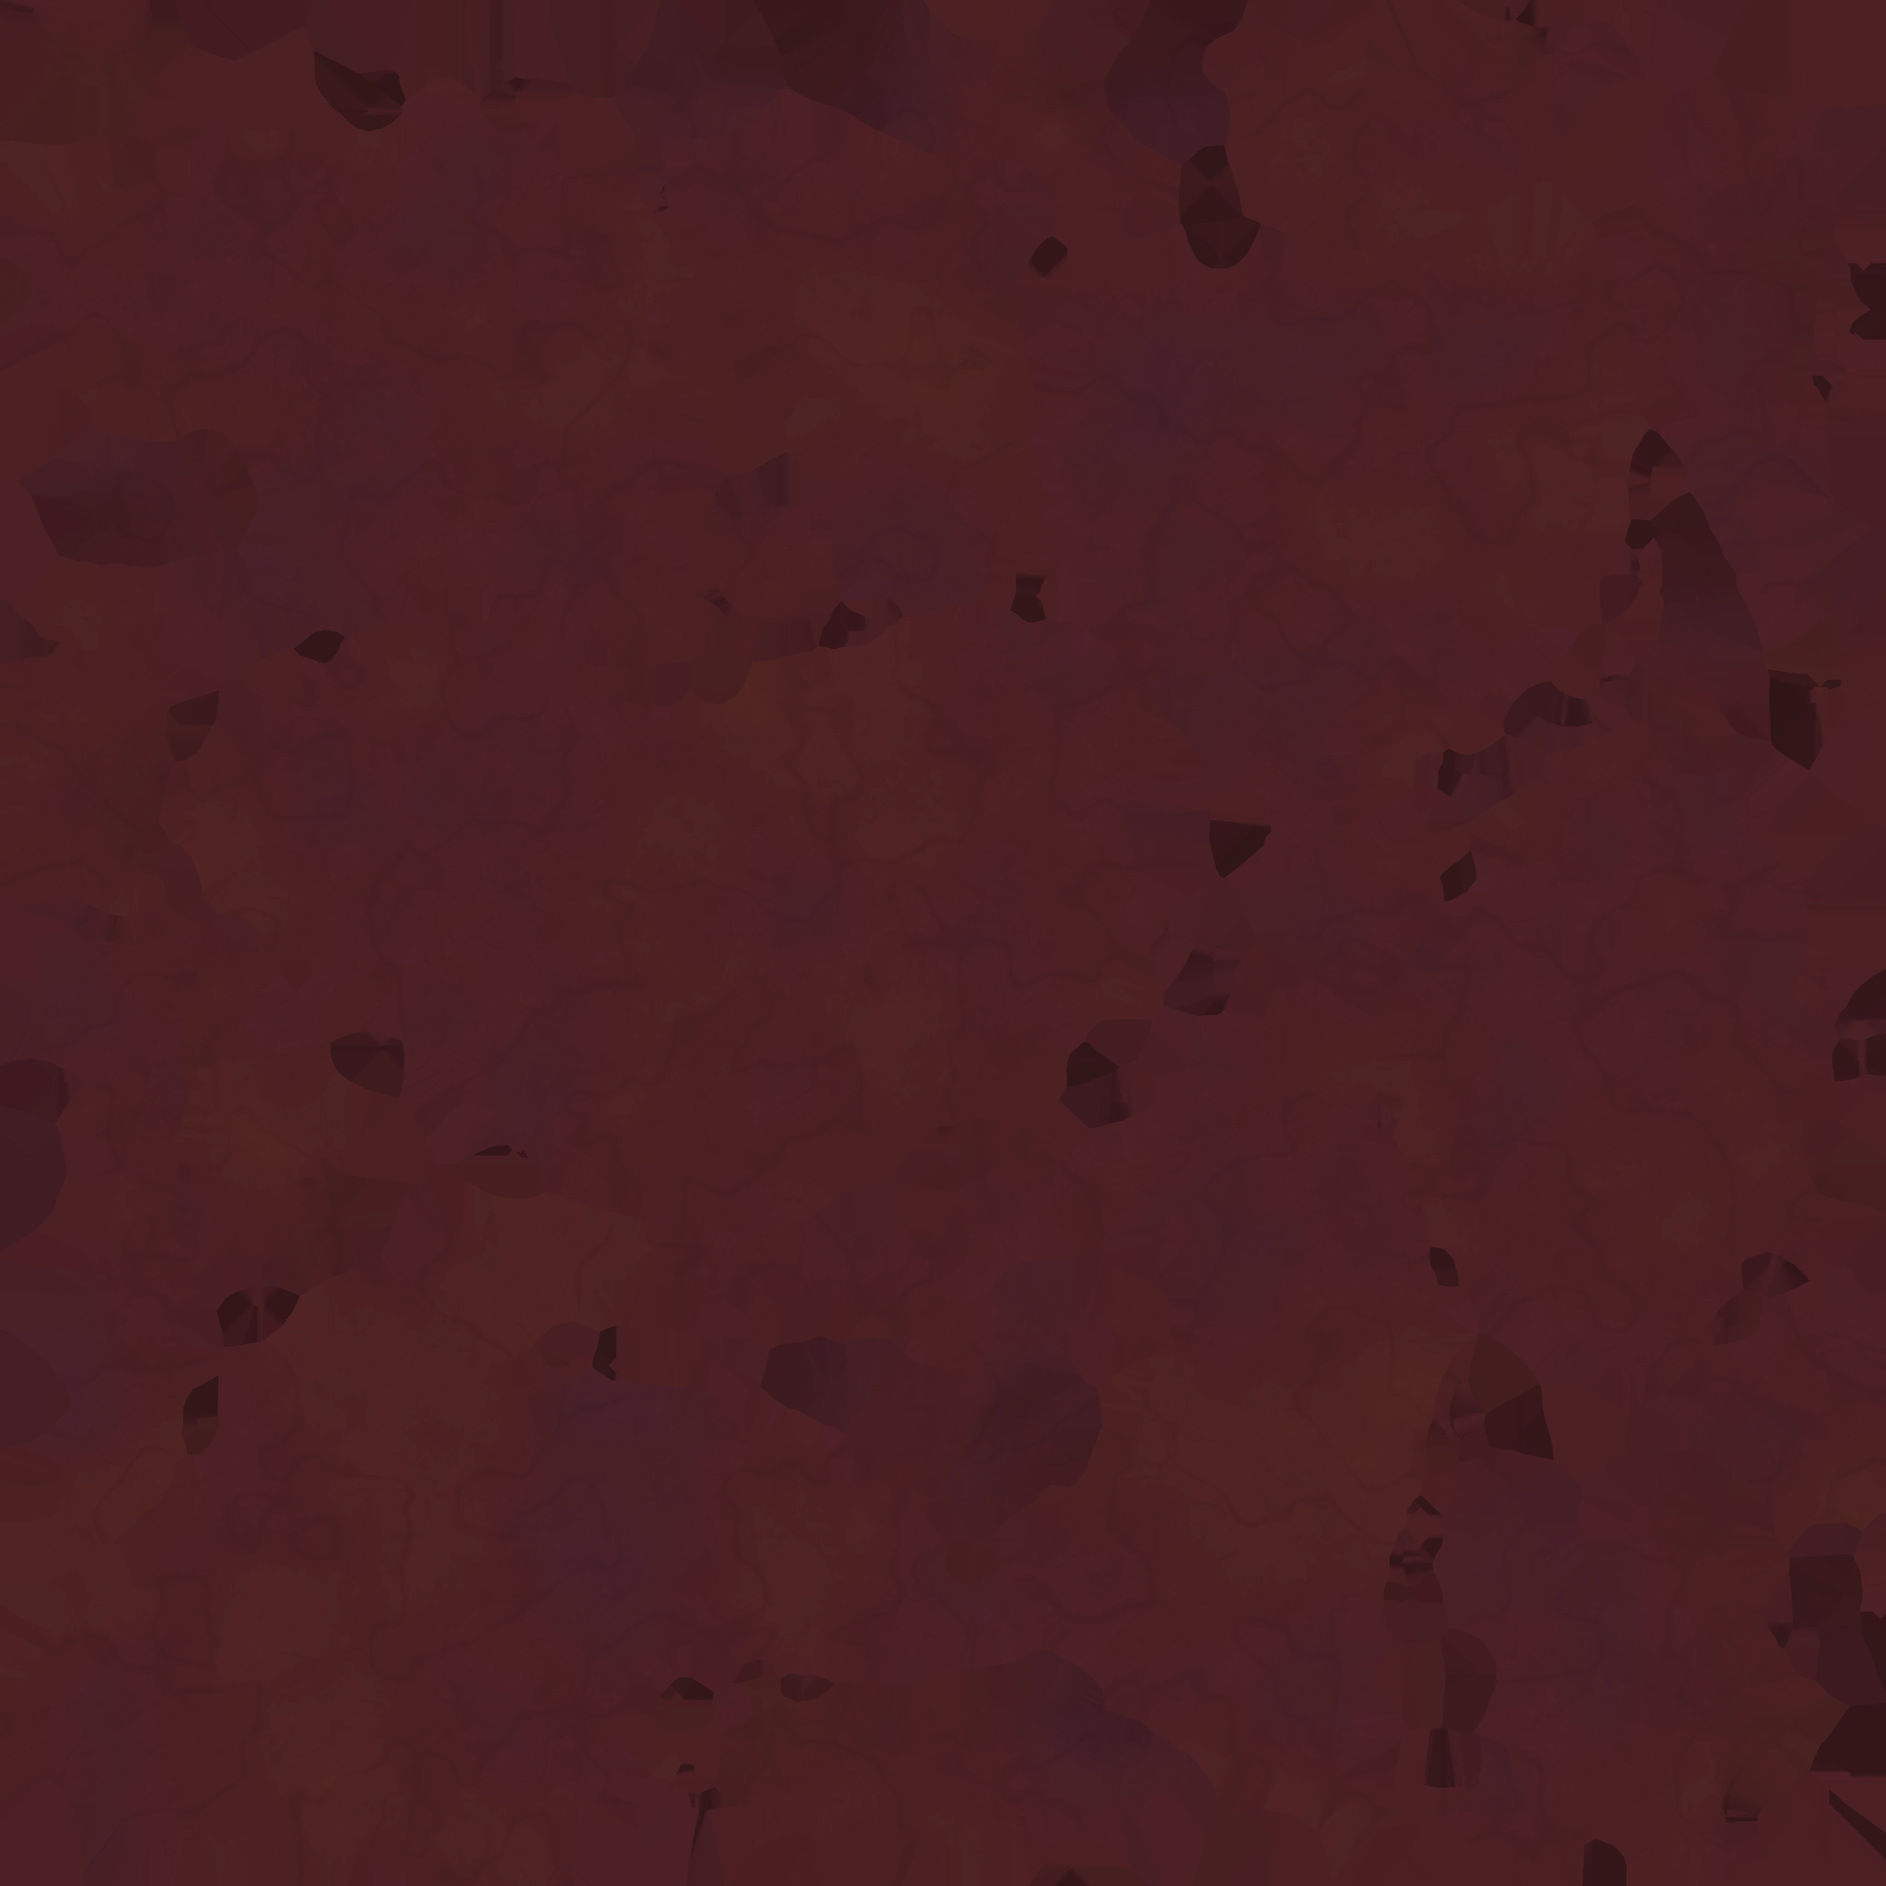
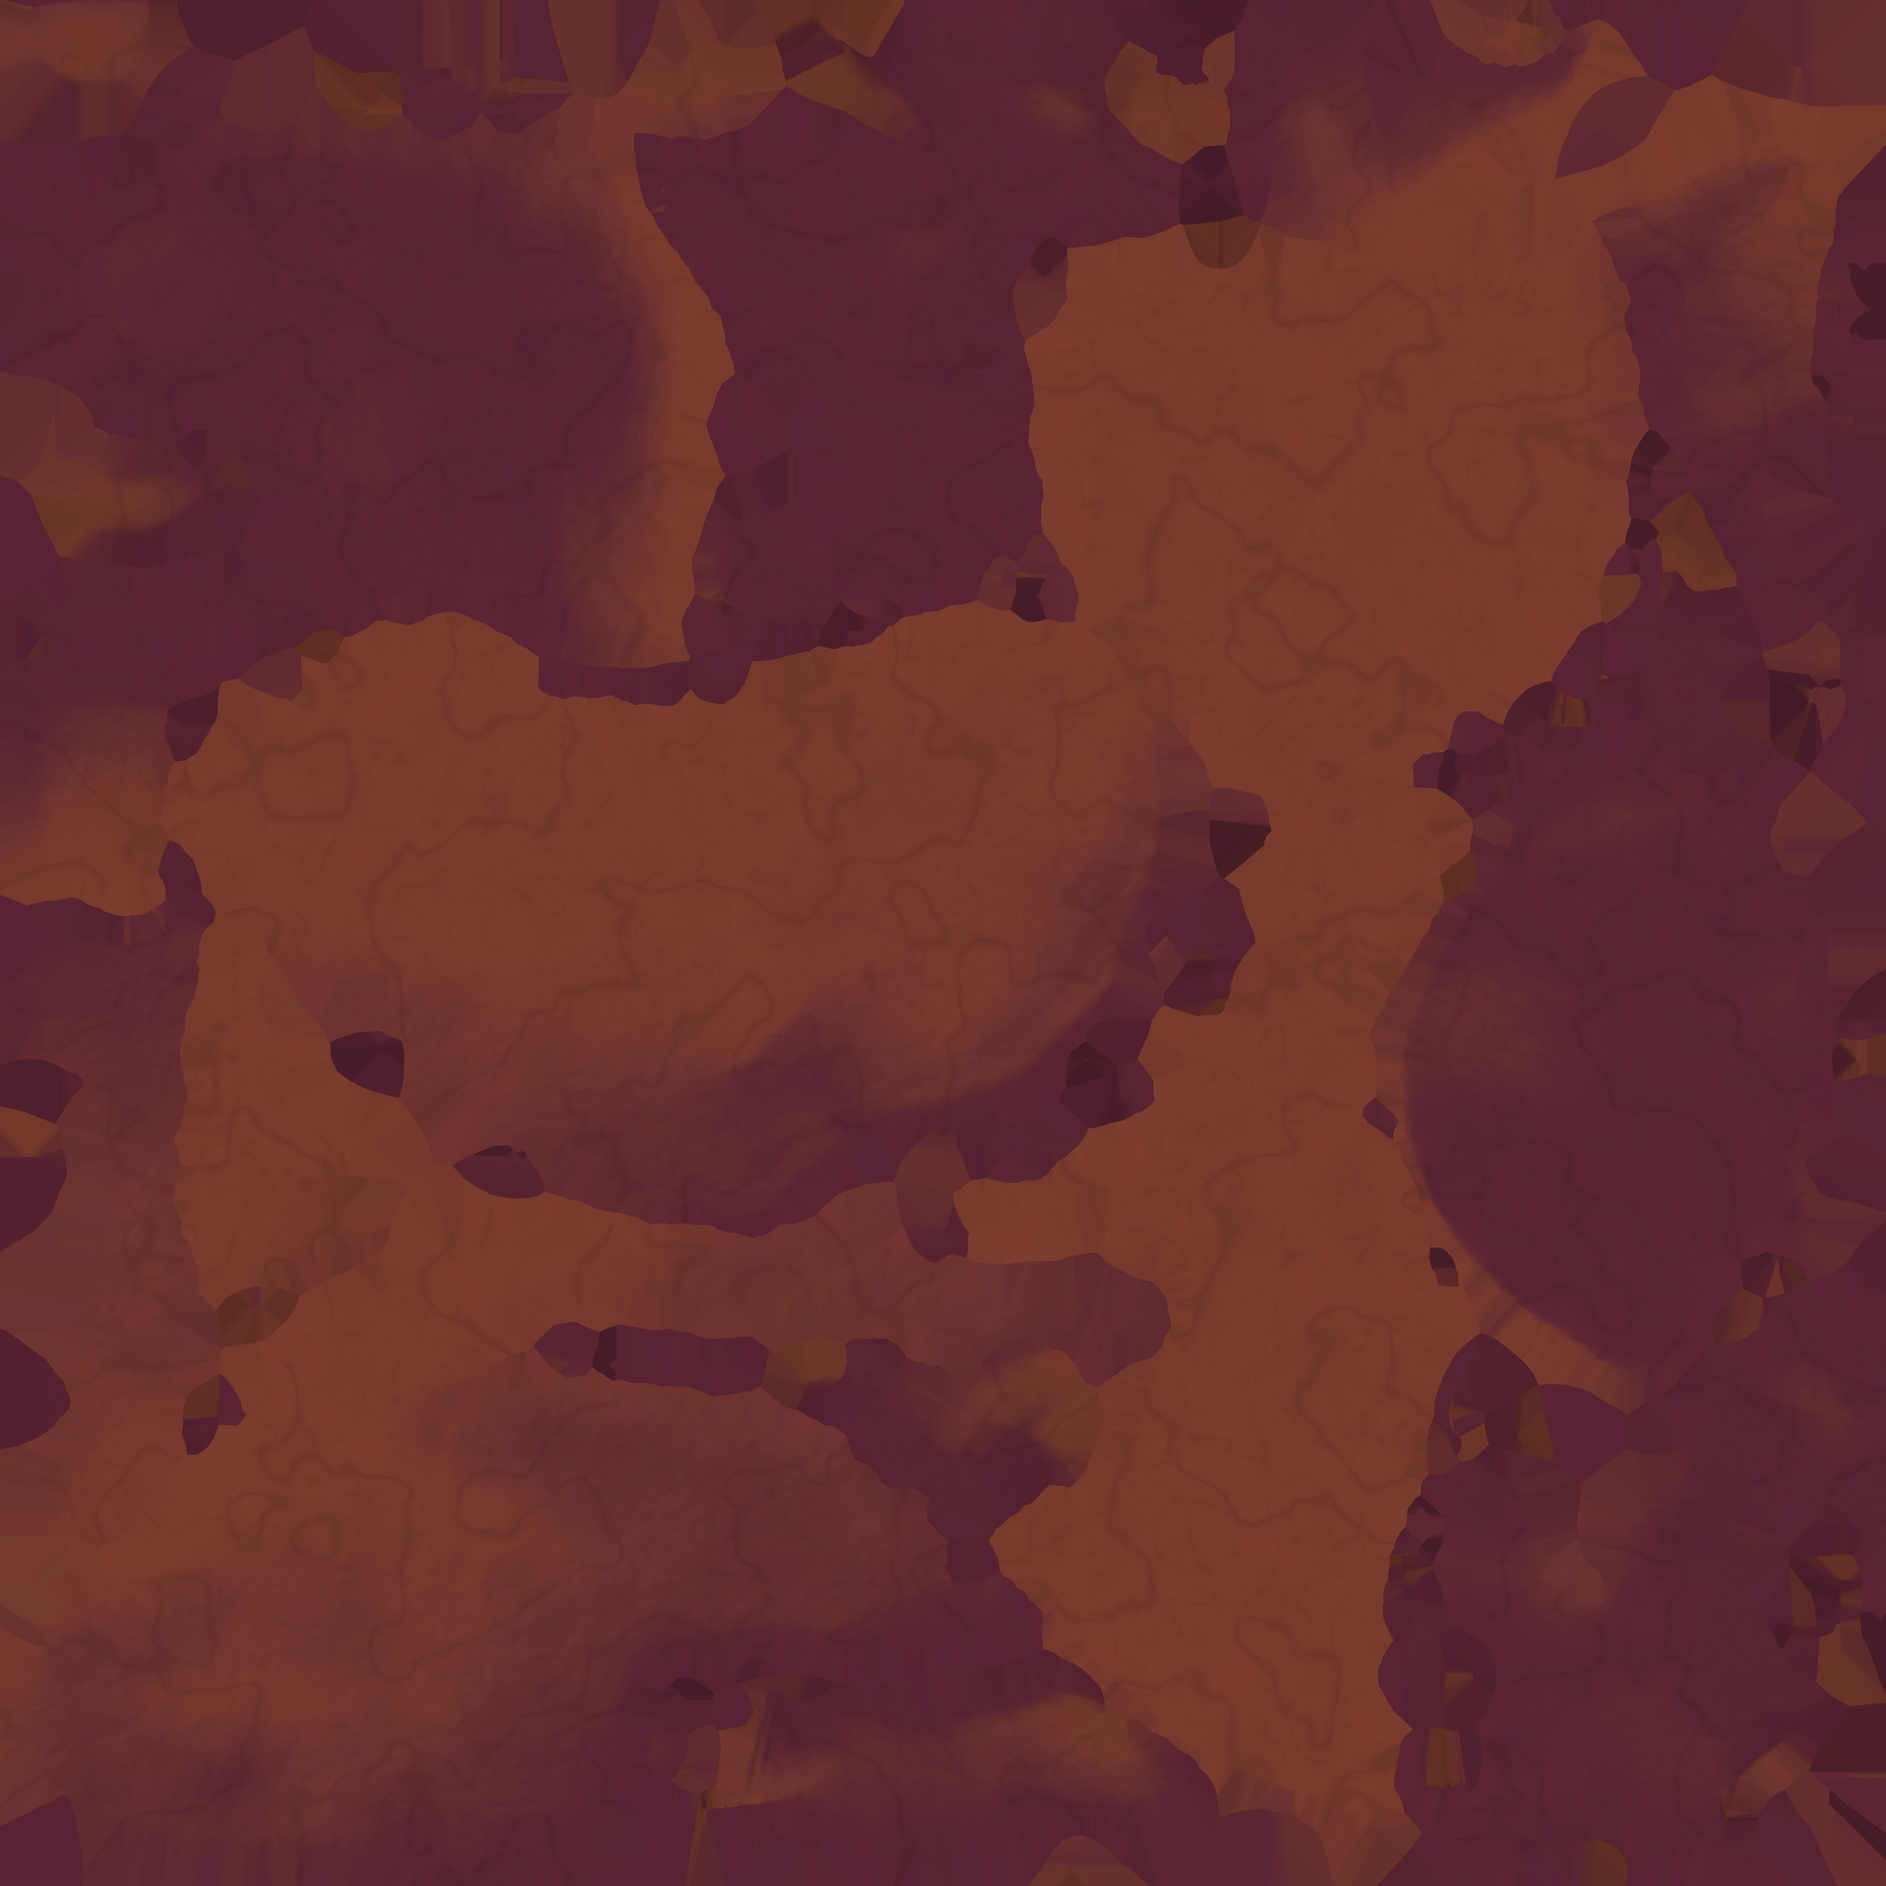
Task 8: liver colour blends from brown superior to purple-red visceral surface
bake44.py now also bakes the object-space normal (2K). The liver compose takes its base colour from
#7A3B2E (superior/diaphragmatic) to #5A2433 (inferior/visceral) by the texel's normal y plus
low-frequency 3D noise (~5 cm) through a wide smoothstep, so the transition has no boundary;
mottling, capsular veins, cavity and a lighter AO term sit on top (the page also occludes indirect
light). The page's reference mean albedo (pathology luminance normalisation) follows the new maps
(#6A3130). The falciform is re-matched a step paler than the new palette. Baselines rebaselined.

Claude-Session: https://claude.ai/code/session_01Nj6yACnfvfM4DxtWCtf6uA

diff --git a/src/atlas.js b/src/atlas.js
@@ -325,7 +325,7 @@ function skin(m,kind,rest=false){
   m.envMapIntensity=(SKIN_ENV[kind]??1)*R36.env; m.userData.skinKind=kind;
   const U={tSkin:{value:SKIN_TEX}, uSkS:{value:new THREE.Vector3(...k.S)}, uSkK:{value:new THREE.Vector4(...k.K)},
            uSkK2:{value:new THREE.Vector3(...k.K2)}, uSkVein:{value:new THREE.Color(k.vein)}, uSkRim:{value:new THREE.Color(k.rim).multiplyScalar(0.22)}, uSkLob:{value:1}, uSkDbg:{value:0},
-           tLvA:{value:null}, tLvO:{value:null}, tOrgO:{value:null}, uLvTis:{value:new THREE.Color(C.tissue)}, uLvMean:{value:new THREE.Color(0x4A2023)}, uLvNod:{value:0}};
+           tLvA:{value:null}, tLvO:{value:null}, tOrgO:{value:null}, uLvTis:{value:new THREE.Color(C.tissue)}, uLvMean:{value:new THREE.Color(0x6A3130)}, uLvNod:{value:0}};
   m.userData.skin=U;
   if(rest) m.defines=Object.assign(m.defines||{},{SKIN_REST:''});
   if(lite) m.defines=Object.assign(m.defines||{},{SKIN_LITE:''});
@@ -1562,7 +1562,7 @@ function falciformBuild(body){
   { const nA=geo.attributes.normal, nn=new THREE.Vector3();   // face outward (along the capsule normal)
     let k=0; for(let i=0;i<nA.count;i+=ring){ nn.fromBufferAttribute(nA,i+J); k+=nn.dot(Nn[Math.round(i/ring)]); }
     if(k<0){ const I=geo.index.array; for(let f=0;f<I.length;f+=3){ const tmp=I[f+1]; I[f+1]=I[f+2]; I[f+2]=tmp; } geo.index.needsUpdate=true; geo.computeVertexNormals(); } }
-  const FALC_COL=0x66302C;   // v44: the liver's red-brown, a step paler than the surrounding capsule; liver skin, not the warm serosa rim
+  const FALC_COL=0x8E4F40;   // v44: the liver's red-brown (Task 8 palette, #7A3B2E superior), a step paler; liver skin, not the warm serosa rim
   const fm=skin(mat(FALC_COL,{roughness:0.42,clearcoat:0.55,clearcoatRoughness:0.26,sheen:0.10,sheenColor:new THREE.Color(0xB88078),sheenRoughness:0.6,
     emissive:new THREE.Color(FALC_COL).multiplyScalar(0.02)}),'liver');
   const fmesh=tag(new THREE.Mesh(geo,fm),'Falciform ligament'); g.add(fmesh);
@@ -1583,6 +1583,8 @@ function falciformBuild(body){
    thickness and position bakes → albedo, normal and ORM = R occlusion, G roughness, B clearcoat / wetness), 4K on desktop
    and 2K on phones, chosen at load (phones had no liver maps before). The tiling detail map replaces the generic skin atlas
    on the liver at close range (desktop), with the macro maps carrying colour, capsular veins, creases, wetness and AO. */
+/* v44: uLvMean (skin uniforms) is the mean of the composed liver albedo (bake44.py prints it), so pathology colours keep
+   their luminance when they take only the map's light/dark pattern */
 const LIVER_PHONE=innerWidth<=860||(innerHeight<=520&&matchMedia('(pointer:coarse)').matches);
 const LIVER_DETAIL_TEX=(()=>{ if(LIVER_PHONE) return null;
   const t=new THREE.TextureLoader().load('liver42_detail.png'); t.wrapS=t.wrapT=THREE.RepeatWrapping; t.anisotropy=renderer.capabilities.getMaxAnisotropy(); t.colorSpace=THREE.NoColorSpace; return t; })();

diff --git a/pipeline/bake44.py b/pipeline/bake44.py
@@ -16,6 +16,7 @@ Stages (work files in pipeline/work44/<organ>/, not committed):
              cav        cavity: AO at ~1–2 mm
              curv       mean curvature of the high mesh (vertex colour → emission bake)
              thick      thickness: AO baked from inside (normals flipped) — thin rims read bright
+             onrm       object-space normal (orientation-driven colour: superior vs visceral surface)
              pos        object-space position (so compose noise is 3D and continuous across UV seams)
   compose  numpy: albedo (sRGB), tangent normal, ORM (R ambient occlusion, G roughness, B clearcoat / wetness mask),
            each at the desktop and the mobile resolution; WebP (the artifact host refuses .ktx2, see CLAUDE.md).
@@ -202,7 +203,10 @@ def stage_bake(organ, cfg):
     def img(name, res, float_=False):
         im = bpy.data.images.new(name, res, res, alpha=False, float_buffer=float_); im.colorspace_settings.name = 'Non-Color'; return im
 
+    only = [k for k in os.environ.get('BAKE_ONLY', '').split(',') if k]   # e.g. BAKE_ONLY=onrm: re-bake a subset
+
     def bake(kind, res, target=lo, float_=False, type_=None, sel=True, **kw):
+        if only and kind not in only: return
         im = img(kind, res, float_); tn.image = im; nt.nodes.active = tn
         bpy.ops.object.select_all(action='DESELECT'); target.select_set(True); bpy.context.view_layer.objects.active = target
         if sel: hi.select_set(True); kw.update(use_selected_to_active=True, cage_extrusion=cfg['cage'], max_ray_distance=cfg['ray'])
@@ -211,6 +215,7 @@ def stage_bake(organ, cfg):
         np.save(w / f'bake_{kind}.npy', px.astype(np.float32 if float_ else np.float16)); print(f'bake {kind} {res}² {time.time()-t:.0f} s', flush=True)
 
     bake('normal', R, normal_space='TANGENT')
+    bake('onrm', r, type_='NORMAL', normal_space='OBJECT')           # object-space normal (colour = n·0.5 + 0.5), for orientation-driven colour
     bake('curv', r, type_='EMIT')
     sc.cycles.samples = 64; sc.world.light_settings.distance = cfg['ao_dist']; bake('ao', r, type_='AO')
     sc.cycles.samples = 32; sc.world.light_settings.distance = cfg['cav_dist']; bake('cav', r, type_='AO')
@@ -253,19 +258,27 @@ def liver_veins(x):
     return np.maximum(np.clip((r - 0.80) / 0.2, 0, 1) ** 2, 0.5 * np.clip((r2 - 0.82) / 0.18, 0, 1) ** 2)
 
 
-def compose_liver(X, ao, cav, curv, thick):
-    """liver, v42 recipe (compose42.py): deep red-brown with purple/brown drift, mottling, lobular speckle, capsular veins;
-    wetness now also follows the baked curvature (drier on convex ridges and the thin inferior border)"""
+LIVER_SUP, LIVER_INF = '#7A3B2E', '#5A2433'   # v44 (Task 8): browner diaphragmatic surface, deeper purple-red visceral surface
+
+
+def compose_liver(X, ao, cav, curv, thick, onrm=None):
+    """liver colour (v44): heterogeneous red-brown. The base colour blends from the superior / diaphragmatic surface
+    (LIVER_SUP) to the inferior / visceral surface (LIVER_INF) by surface orientation (the texel's object-space normal,
+    +y superior) plus low-frequency 3D noise, through a wide smoothstep, so there is no boundary. On top: patchy mottling,
+    fine mottle, lobular speckle, capsular veins, cavity and a light AO term (the page also occludes indirect light).
+    Wetness also follows the baked curvature (drier on convex ridges and the thin inferior border)."""
     ev = lambda fn: chunked(fn, X, 1_000_000)
-    base, purp, brown, dark = lin('#4C2024'), lin('#44202E'), lin('#582A20'), lin('#301218')
-    m1 = ev(lambda x: fbm(x * 1.6, 3, seed=21)); m2 = ev(lambda x: fbm(x * 6.0, 4, seed=33)); m3 = ev(lambda x: fbm(x * 30.0, 2, seed=45))
+    sup, inf, dark = lin(LIVER_SUP), lin(LIVER_INF), lin('#2E1018')
+    ny = onrm[:, 1] if onrm is not None else np.zeros(len(X))
+    lf = ev(lambda x: fbm(x * 1.3, 3, seed=91))                                    # ~5 cm drift of the transition
+    t = np.clip((ny + 0.50 * lf + 0.15 - (-0.55)) / (0.60 - (-0.55)), 0, 1); wgt = t * t * (3 - 2 * t)
+    col = inf[None] * (1 - wgt)[:, None] + sup[None] * wgt[:, None]
+    m2 = ev(lambda x: fbm(x * 6.0, 4, seed=33)); m3 = ev(lambda x: fbm(x * 30.0, 2, seed=45))
     lob = ev(lambda x: worley_f2f1(x * 42.0, seed=57)); vn = ev(liver_veins); wet = ev(lambda x: fbm(x * 2.2, 3, seed=81))
-    col = np.tile(base, (len(X), 1))
-    t = np.clip(m1 * 1.6, -1, 1)[:, None]; col = np.where(t > 0, col * (1 - t * 0.55) + purp * t * 0.55, col * (1 + t * 0.5) - brown * t * 0.5)
-    col *= (1 + 0.10 * m2)[:, None]; col *= (1 + 0.05 * m3)[:, None]
+    col *= (1 + 0.09 * m2)[:, None]; col *= (1 + 0.05 * m3)[:, None]
     col *= (1 - 0.035 * np.exp(-(lob / 0.08) ** 2))[:, None]
-    col = col * (1 - 0.22 * vn[:, None]) + dark * 0.22 * vn[:, None]
-    col *= (0.55 + 0.45 * ao ** 0.8)[:, None]; col *= (0.80 + 0.20 * cav)[:, None]
+    col = col * (1 - 0.20 * vn[:, None]) + dark * 0.20 * vn[:, None]
+    col *= (0.72 + 0.28 * ao ** 0.8)[:, None]; col *= (0.85 + 0.15 * cav)[:, None]
     rough = np.clip(0.40 - 0.126 * np.clip(wet * 1.8 + 0.1, -1, 1) - 0.10 * (1 - cav) + 0.05 * m3, 0.16, 0.62)
     wetn = np.clip(0.55 + 0.9 * wet + 0.4 * (1 - ao) - 0.25 * np.clip(curv - 0.6, 0, 1) - 0.15 * (1 - thick), 0, 1)
     return np.clip(col, 0, 1), rough, wetn
@@ -279,13 +292,19 @@ def stage_compose(organ, cfg):
     from scipy.ndimage import zoom
     g = {k: np.load(w / f'bake_{k}.npy').astype(np.float32)[..., 0] for k in ('ao', 'cav', 'curv', 'thick')}
     g = {k: (zoom(v, R / v.shape[0], order=1) if v.shape[0] != R else v) for k, v in g.items()}
+    on = None
+    if (w / 'bake_onrm.npy').exists():
+        on = np.load(w / 'bake_onrm.npy').astype(np.float32) * 2 - 1
+        if on.shape[0] != R: on = zoom(on, (R / on.shape[0], R / on.shape[0], 1), order=1)
     cov = np.abs(pos).sum(-1) > 1e-6
     n = nrm * 2 - 1; bad = cov & ((n[..., 2] < 0.35) | (np.linalg.norm(n, axis=-1) < 0.6))
     print(f'compose: {cov.sum()} texels, {100*bad.sum()/cov.sum():.3f}% implausible normals repaired', flush=True)
     n[bad] = [0, 0, 1]; n /= np.linalg.norm(n, axis=-1, keepdims=True)
     X = pos[cov].astype(np.float64)
     th = g['thick'][cov]; th = (th - np.percentile(th, 2)) / (np.percentile(th, 98) - np.percentile(th, 2) + 1e-6)
-    col, rough, wet = {'pancreas': compose_pancreas, 'liver': compose_liver}[organ](X, g['ao'][cov], g['cav'][cov], g['curv'][cov], np.clip(th, 0, 1))
+    args = (X, g['ao'][cov], g['cav'][cov], g['curv'][cov], np.clip(th, 0, 1))
+    col, rough, wet = compose_pancreas(*args) if organ == 'pancreas' else compose_liver(*args, onrm=on[cov] if on is not None else None)
+    mean = col.mean(0); print('compose: mean albedo (linear)', mean.round(4), 'sRGB #%02X%02X%02X' % tuple((mean ** (1 / 2.2) * 255 + 0.5).astype(int)), flush=True)
     A = np.zeros((R, R, 3), np.float32); A[cov] = col
     ORM = np.zeros((R, R, 3), np.float32); ORM[cov] = np.stack([g['ao'][cov], rough, wet], 1)
     _, ind = distance_transform_edt(~cov, return_indices=True)            # bleed charts into the gutters (no mip halos)

diff --git a/CHANGELOG.md b/CHANGELOG.md
@@ -8,6 +8,7 @@
 - Pancreas surface blur. Cause: no UVs or maps of its own; the shared 512² procedural atlas was projected triplanar (blend zones average two projections) and its lobulation was a screen-derivative bump of a bilinear-filtered height, 5–20× stronger than other organs', faded out at normal viewing distance by the detail LOD fade, leaving soft blotches; anisotropy capped at 4 (8 on the liver). No mesh LOD switching was involved. Fix: xatlas UVs with seam-welded normals, baked maps from a lobulated high mesh (`pipeline/bake44.py`: tangent normal, self-AO, cavity, curvature, thickness → albedo, ORM with a clearcoat/wetness mask), 2K desktop / 1K phone chosen at load, peach-orange lobules after the maleinternalorans3dsmodel013 reference; anisotropic filtering at the device maximum on every texture.
 - Falciform ligament (after the tissue-liver-4 reference): anterior course only, from the dome edge down to the umbilical notch; the wide superior section is removed. A low soft fold (~0.7 mm high on a ~1.2 cm base) in the liver's own red-brown, a step paler, flanks tucked under the capsule (no z-fighting). The ligamentum teres is kept in the scene graph but hidden (`visible=false`, `userData.teachingHidden`).
 - Liver bake (`pipeline/bake44.py liver`, headless, reproducible): tangent-space normal, self-AO, cavity, curvature and thickness (plus position) baked from the high mesh; albedo, roughness and a clearcoat/wetness mask composed from them. 4K on desktop, 2K on phones, chosen at load (phones previously had no liver maps). WebP, not KTX2: the artifact host refuses `.ktx2`. `dist` budget 9 → 10 MB for the per-device sets.
+- Liver colour: heterogeneous, blending smoothly from a browner superior/diaphragmatic surface (#7A3B2E) to a deeper purple-red inferior/visceral surface (#5A2433), driven by each texel's baked object-space normal plus low-frequency 3D noise through a wide smoothstep (no boundary). Falciform re-matched a step paler than the new palette.
 
 ## v43 — foundation (27 Sept 2026)
 No intended visual change from v42.
